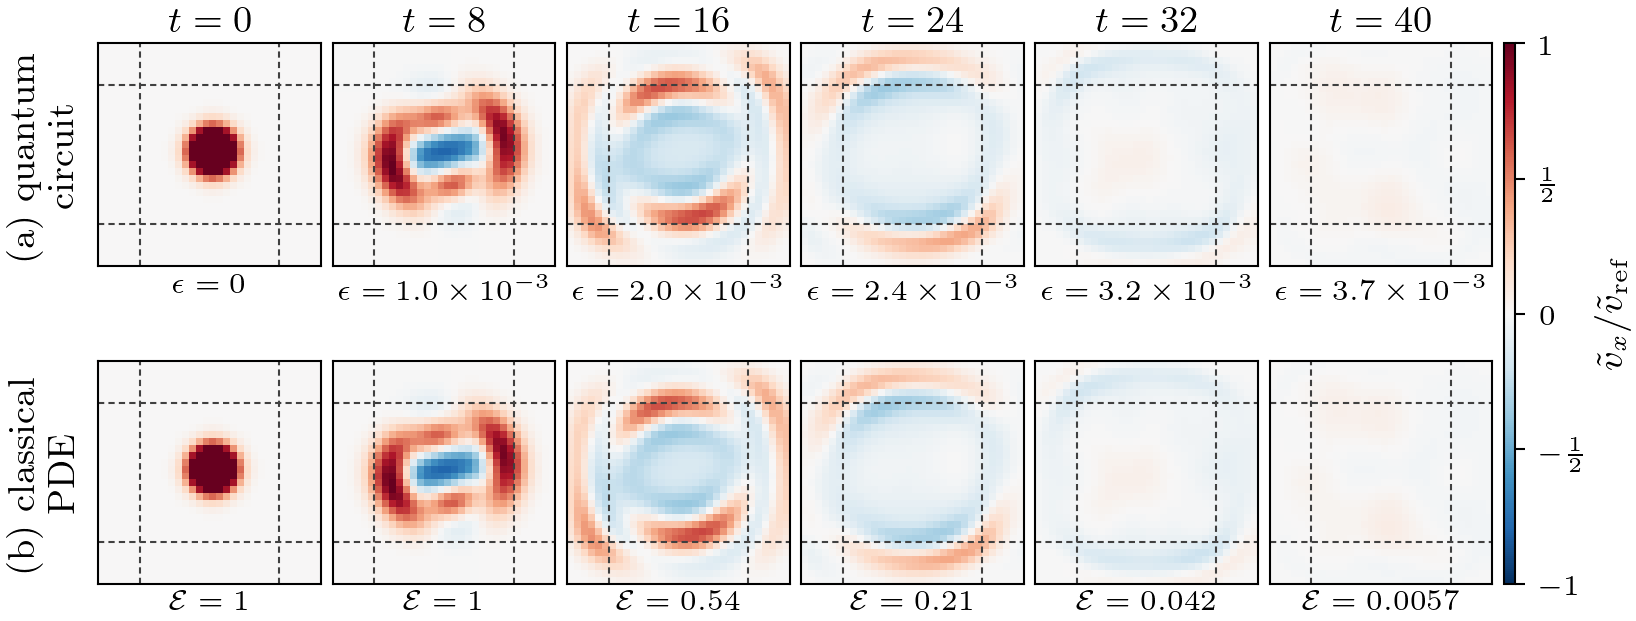
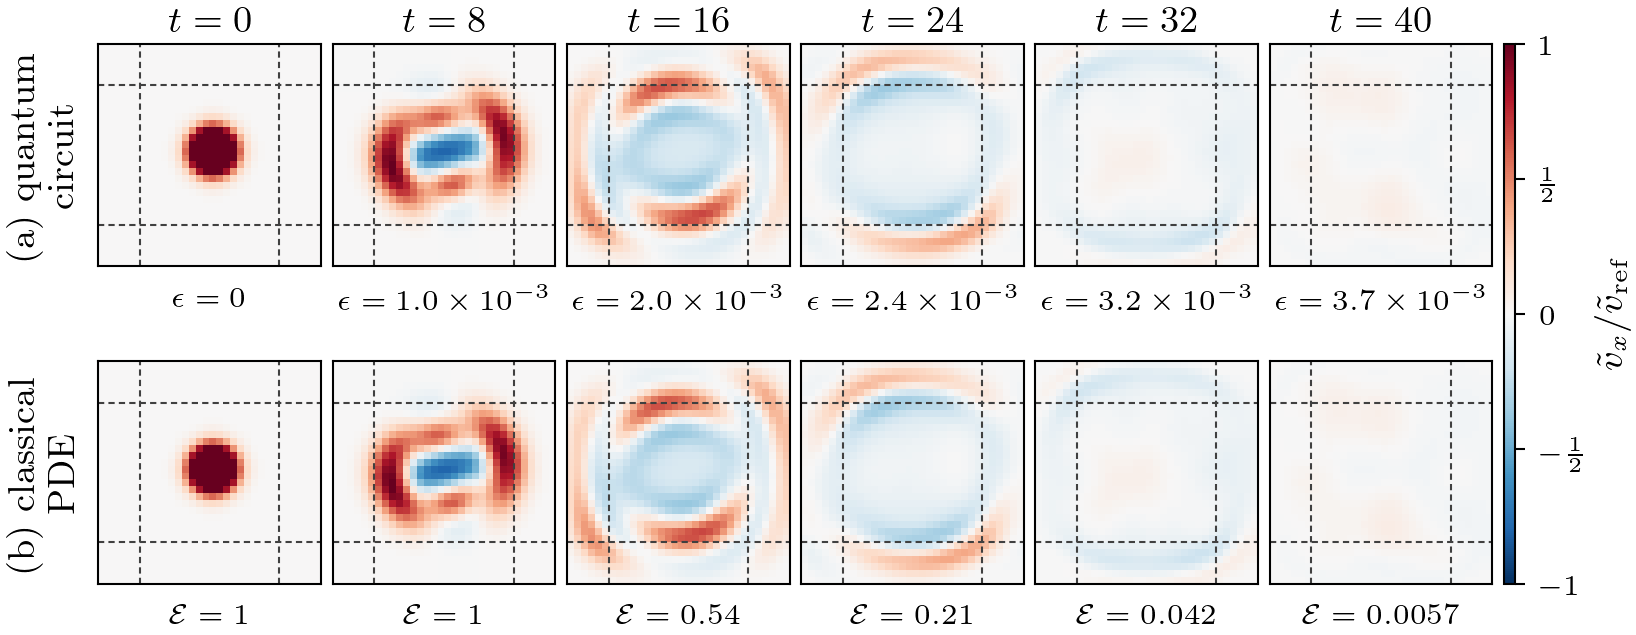
sponge: baseline-aligned labels below gate-level panels

diff --git a/sponge/paper/experiments/figstyle.py b/sponge/paper/experiments/figstyle.py
@@ -115,8 +115,9 @@ def wavefield_grid(rows, row_labels, col_titles, vmax, edges, notes=None,
             if j == 0:
                 ax.set_ylabel(row_labels[i], labelpad=4)
             if notes and notes[i][j]:
-                ax.text(0.5, -0.025, notes[i][j], transform=ax.transAxes, ha="center",
-                        va="top", fontsize=7 if nc > 5 else 7.5, linespacing=1.1)
+                ax.annotate(notes[i][j], xy=(0.5, 0.0), xycoords="axes fraction",
+                            xytext=(0, -9.5), textcoords="offset points", ha="center",
+                            va="baseline", fontsize=7 if nc > 5 else 7.5)
             rax.append(ax)
         axs.append(rax)
     cax = fig.add_subplot(gs[:, nc])
